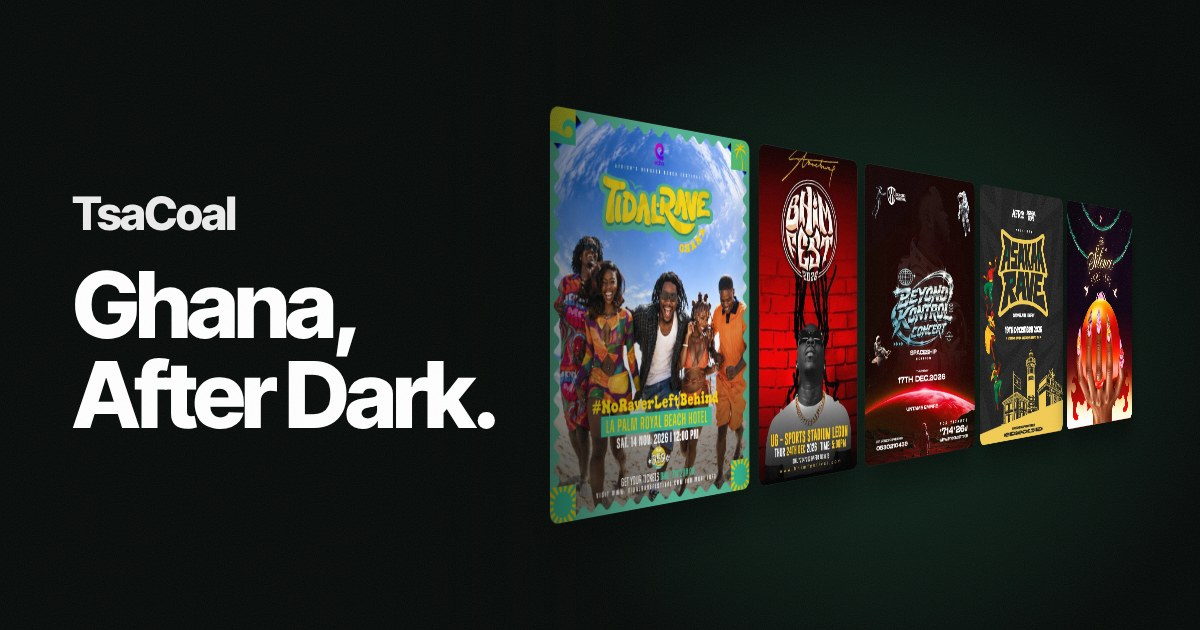
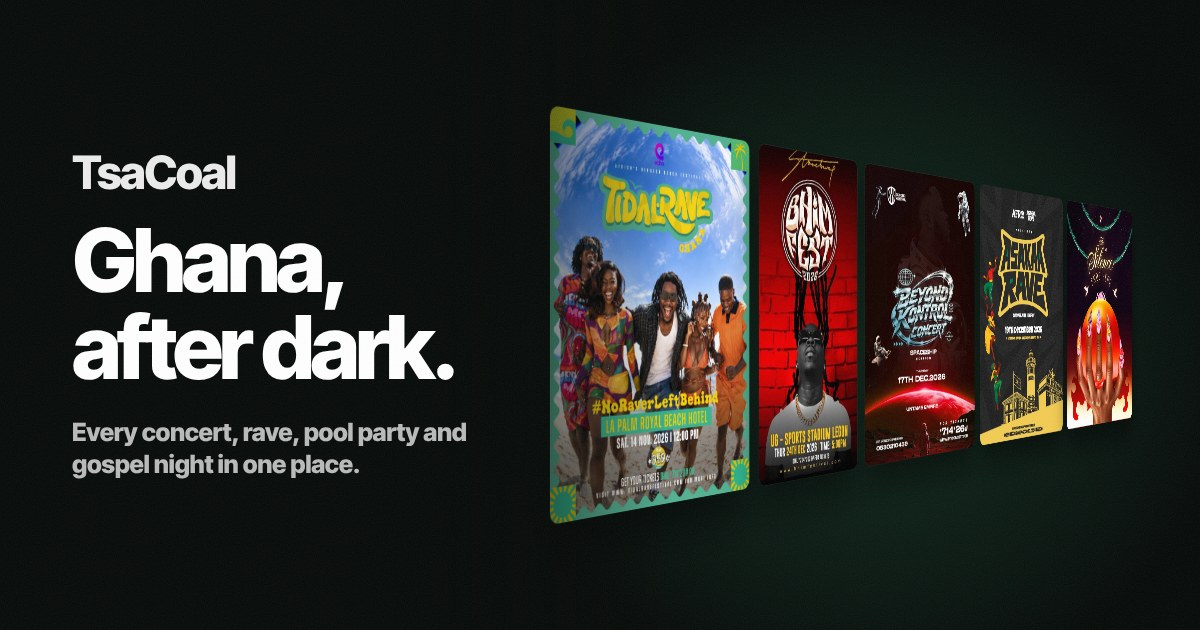
Share card: Leo's launch copy
Claude-Session: https://claude.ai/code/session_01E9nKbSTasv4toSKKgXYzHU

Changed region(s): [[0.0617, 0.2413, 0.4317, 0.754]]

diff --git a/app/layout.tsx b/app/layout.tsx
@@ -34,8 +34,8 @@ export const metadata: Metadata = {
     other: { ...(process.env.NEXT_PUBLIC_BING_SITE_VERIFICATION ? { 'msvalidate.01': process.env.NEXT_PUBLIC_BING_SITE_VERIFICATION } : {}) },
   },
   robots: { index: true, follow: true, googleBot: { index: true, follow: true, 'max-image-preview': 'large', 'max-snippet': -1, 'max-video-preview': -1 } },
-  openGraph: { type: 'website', siteName: 'TsaCoal', title: 'TsaCoal | Ghana, After Dark', description: 'Every night out in Ghana in one place. Find the show, save it, bring your people.' },
-  twitter: { card: 'summary_large_image', title: 'TsaCoal | Ghana, After Dark', description: 'Every night out in Ghana in one place. Find the show, save it, bring your people.' },
+  openGraph: { type: 'website', siteName: 'TsaCoal', title: 'TsaCoal | Ghana, after dark', description: 'Every concert, rave, pool party and gospel night in one place. Find the show, save it, bring your people.' },
+  twitter: { card: 'summary_large_image', title: 'TsaCoal | Ghana, after dark', description: 'Every concert, rave, pool party and gospel night in one place. Find the show, save it, bring your people.' },
 };
 
 export const viewport = {
